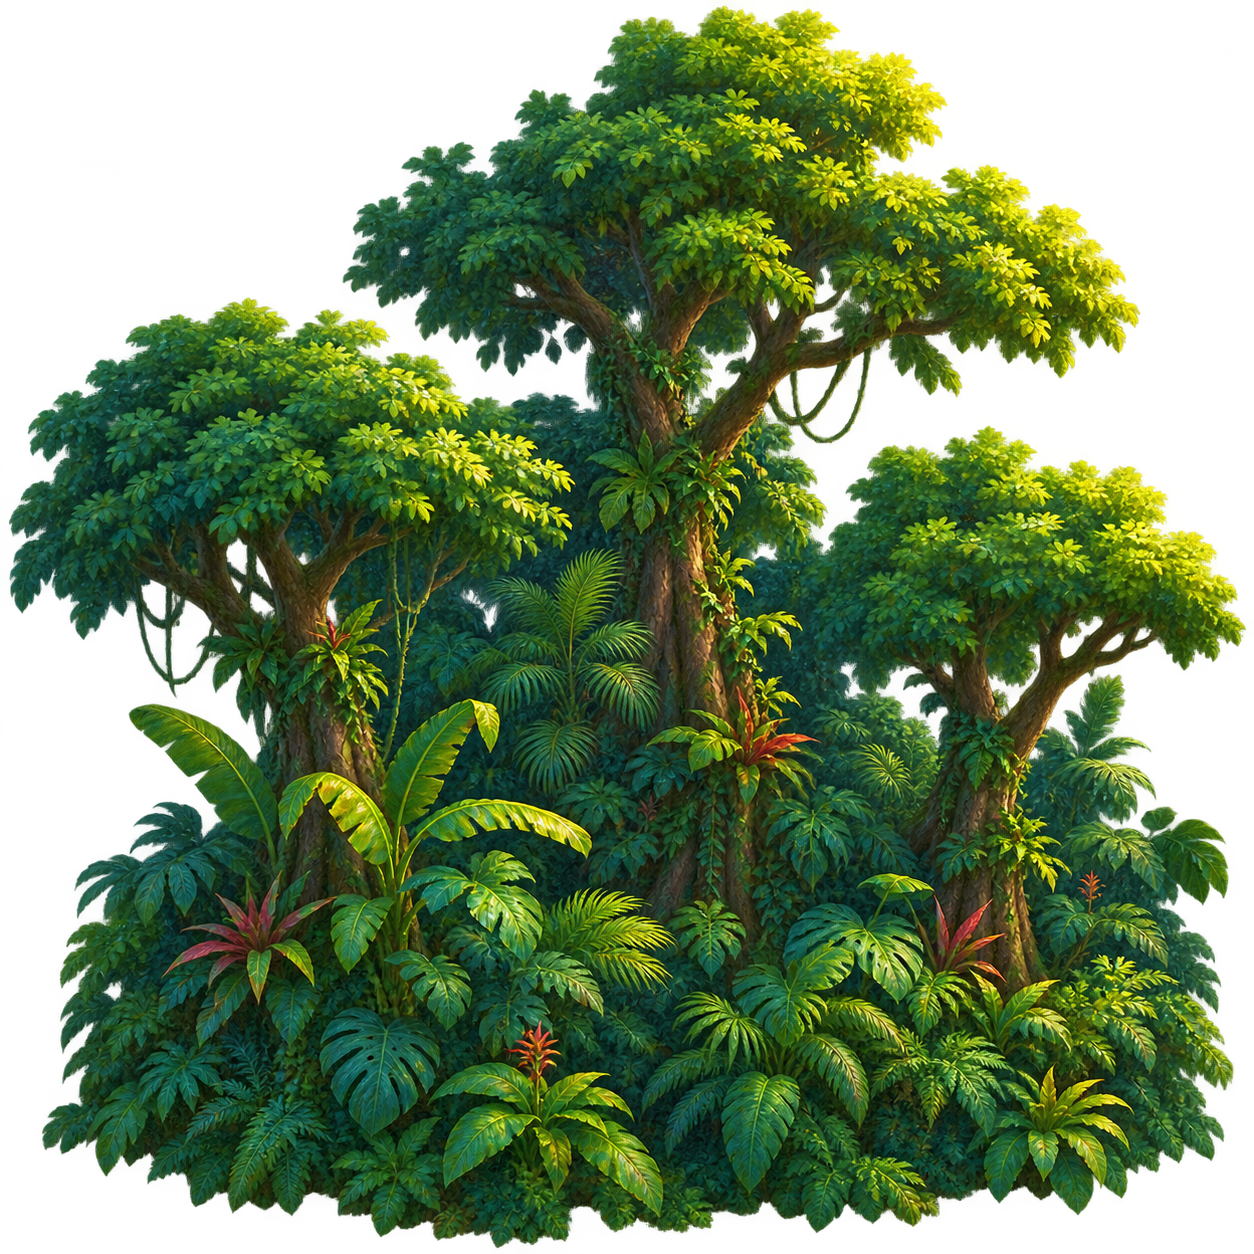
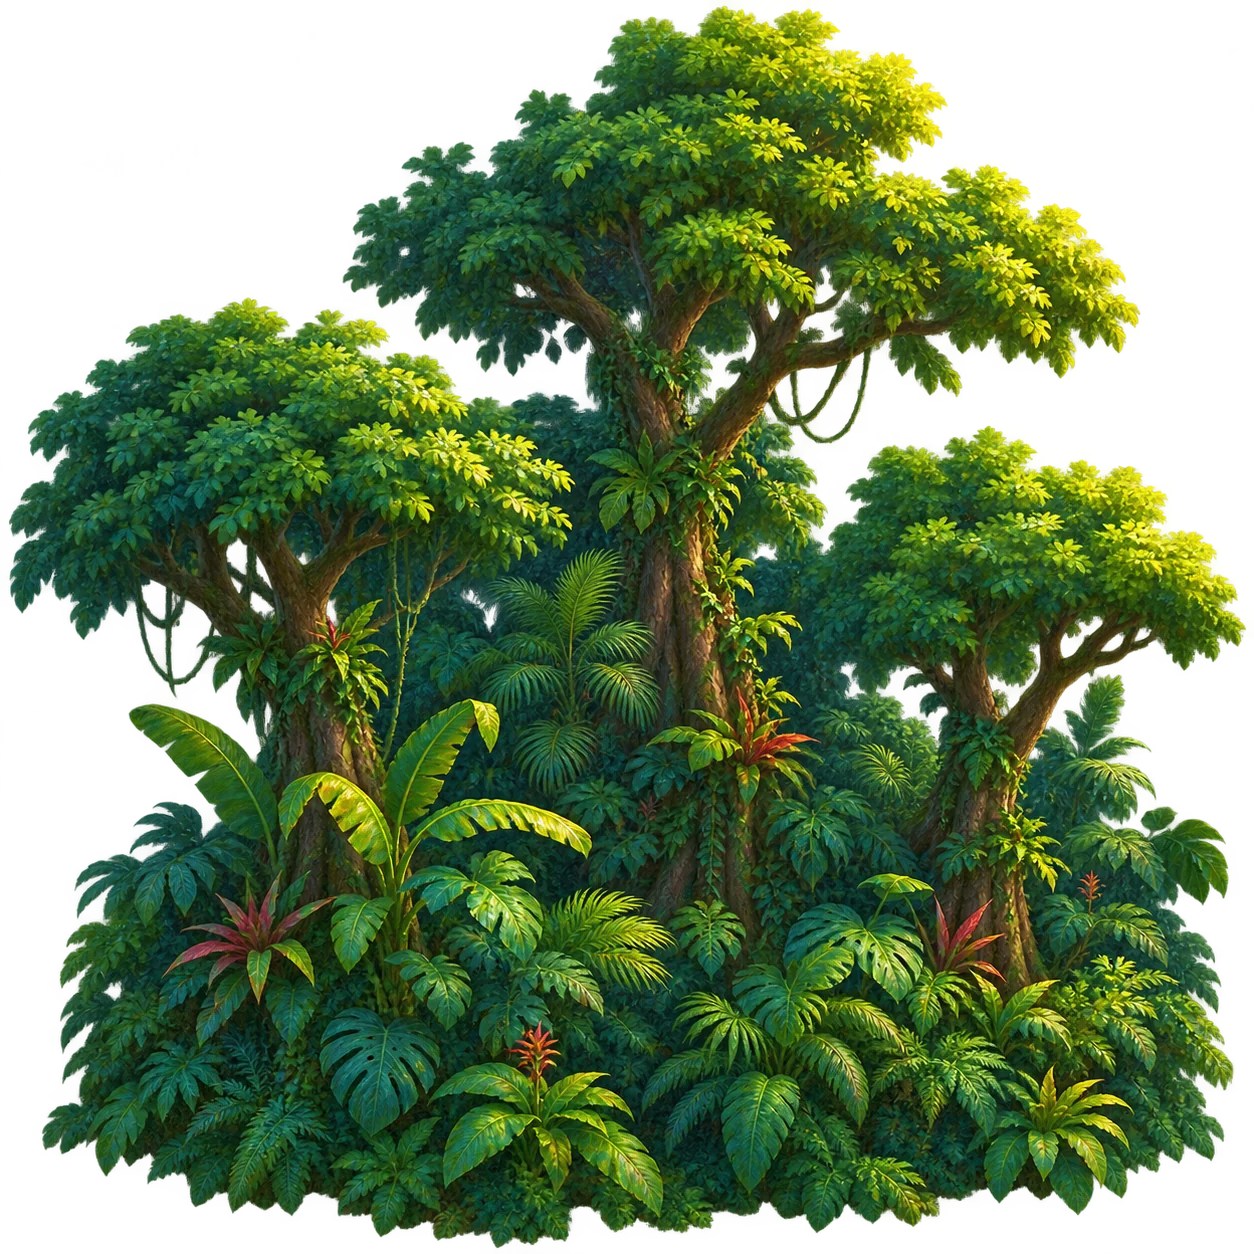
perf(student-race): keep the late challenge art on the GPU and compress two scenery images

diff --git a/client/src/features/studentRace/pixi/__tests__/StudentRaceRenderer.gpuResidency.test.js b/client/src/features/studentRace/pixi/__tests__/StudentRaceRenderer.gpuResidency.test.js
@@ -1,0 +1,119 @@
+import { Assets, Container, Texture, TextureSource } from "pixi.js";
+import { afterEach, describe, expect, it, vi } from "vitest";
+
+import { RACE_GAMEPLAY_MODES } from "../../../../constants/raceGameplayConstants";
+import { STUDENT_RACE_ANIMATION_CONFIG } from "../../config/raceAnimationConfig";
+import { mapRaceStateToRuntime } from "../../runtime/mapRaceStateToRuntime.js";
+import { STUDENT_RACE_EFFECT } from "../../runtime/studentRaceRuntimeConstants";
+import { raceResponse } from "../../runtime/studentRaceTestFixtures.js";
+import { STUDENT_RACE_EFFECT_ART } from "../assets/studentRaceEffectManifest";
+import { STUDENT_RACE_VEHICLE_MANIFEST } from "../assets/studentRaceVehicleManifest";
+import { StudentRaceRenderer } from "../StudentRaceRenderer";
+
+const art = vi.hoisted(() => ({ idle: null, scenery: null }));
+
+vi.mock("../assets/studentRaceWorldAssets", async (importOriginal) => {
+  const actual = await importOriginal();
+  return { ...actual, loadStudentRaceWorldTexture: async () => ({ status: actual.WORLD_ASSET_STATUS.LOADED, texture: art.scenery }) };
+});
+
+vi.mock("../assets/studentRaceVehicleAssets", async (importOriginal) => {
+  const actual = await importOriginal();
+  return {
+    ...actual,
+    loadStudentRaceVehicleAssets: async (vehicleAssetKey) => ({
+      status: actual.VEHICLE_ASSET_STATUS.LOADED,
+      vehicleAssetKey,
+      definition: actual.resolveStudentRaceVehicleAsset(vehicleAssetKey),
+      textures: [art.idle],
+    }),
+  };
+});
+
+const { posePreloadDelayMs } = STUDENT_RACE_ANIMATION_CONFIG.kartPoses;
+// Images from Assets.load are collectable by Pixi's GPU garbage collector (ImageSource sets the flag).
+const collectable = () => new Texture({ source: new TextureSource({ width: 768, height: 768, autoGarbageCollect: true }) });
+const GREEN_POSES = STUDENT_RACE_VEHICLE_MANIFEST.TOY_CAR_GREEN.poses;
+
+function stubArtLoads(pending = new Set()) {
+  art.idle = collectable();
+  art.scenery = collectable();
+  const loaded = new Map([
+    [GREEN_POSES[RACE_GAMEPLAY_MODES.TURBO_TRIAL], collectable()],
+    [GREEN_POSES[RACE_GAMEPLAY_MODES.SAFE_RUN], collectable()],
+    [STUDENT_RACE_EFFECT_ART.turboExhaust.url, collectable()],
+  ]);
+  const resolvers = new Map();
+  vi.spyOn(Assets, "load").mockImplementation((url) => (pending.has(url)
+    ? new Promise((resolve) => resolvers.set(url, () => resolve(loaded.get(url))))
+    : Promise.resolve(loaded.get(url))));
+  return { loaded, resolvers };
+}
+
+async function raceScreen() {
+  vi.useFakeTimers();
+  const initSource = vi.fn();
+  const gc = { maxUnusedTime: 60000, enabled: true };
+  const app = {
+    screen: { width: 520, height: 800 },
+    stage: new Container(),
+    ticker: { add: vi.fn(), remove: vi.fn() },
+    renderer: { texture: { initSource }, gc },
+  };
+  const renderer = new StudentRaceRenderer(app);
+  await renderer.ready;
+  renderer.updateRuntimeState(mapRaceStateToRuntime(raceResponse()));
+  await vi.advanceTimersByTimeAsync(posePreloadDelayMs + 10);
+  return { app, renderer, initSource, gc };
+}
+
+const tick = (renderer) => renderer.tick({ deltaMS: 16, elapsedMS: 16 });
+
+afterEach(() => {
+  vi.useRealTimers();
+  vi.restoreAllMocks();
+});
+
+describe("StudentRaceRenderer GPU residency of the late challenge art", () => {
+  it("keeps only the player's two poses and the flame on the GPU, without touching Pixi's collector", async () => {
+    const { loaded } = stubArtLoads();
+    const { renderer, initSource, gc } = await raceScreen();
+    const prepared = [...loaded.values()];
+
+    expect(initSource).toHaveBeenCalledTimes(3);
+    expect(initSource.mock.calls.map(([source]) => source)).toEqual(expect.arrayContaining(prepared.map(({ source }) => source)));
+    prepared.forEach(({ source }) => expect(source.autoGarbageCollect).toBe(false));
+    expect(art.idle.source.autoGarbageCollect).toBe(true);
+    expect(art.scenery.source.autoGarbageCollect).toBe(true);
+    expect(gc).toEqual({ maxUnusedTime: 60000, enabled: true });
+    renderer.destroy();
+  });
+
+  it("uploads nothing again when the Turbo win and the Safe run show that art later", async () => {
+    stubArtLoads();
+    const { renderer, initSource } = await raceScreen();
+    const state = renderer.runtimeState;
+
+    renderer.playMoments({ id: 1, moments: [{ type: STUDENT_RACE_EFFECT.TURBO_SUCCESS, id: "challenge-5" }] });
+    for (let frame = 0; frame < 120; frame += 1) tick(renderer);
+    renderer.updateRuntimeState({ ...state, gameplay: { ...state.gameplay, mode: RACE_GAMEPLAY_MODES.SAFE_RUN } });
+    for (let frame = 0; frame < 60; frame += 1) tick(renderer);
+
+    expect(initSource).toHaveBeenCalledTimes(3);
+    renderer.destroy();
+  });
+
+  it("neither pins nor uploads a pose that finishes loading after the race screen closed", async () => {
+    const turboUrl = GREEN_POSES[RACE_GAMEPLAY_MODES.TURBO_TRIAL];
+    const { loaded, resolvers } = stubArtLoads(new Set([turboUrl]));
+    const { app, renderer, initSource } = await raceScreen();
+
+    renderer.destroy();
+    app.renderer = null;
+    resolvers.get(turboUrl)();
+    await vi.advanceTimersByTimeAsync(0);
+
+    expect(loaded.get(turboUrl).source.autoGarbageCollect).toBe(true);
+    expect(initSource).not.toHaveBeenCalledWith(loaded.get(turboUrl).source);
+  });
+});

diff --git a/client/src/features/studentRace/pixi/StudentRaceRenderer.js b/client/src/features/studentRace/pixi/StudentRaceRenderer.js
@@ -56,7 +56,14 @@ export class StudentRaceRenderer {
     this.sceneryLayer = new SceneryLayer(this.worldContainer);
     this.opponentLayer = new OpponentLayer(this.worldContainer);
     this.playerKartLayer = new PlayerKartLayer(this.worldContainer, {
-      prepareTexture: (texture) => this.app.renderer?.texture?.initSource?.(texture.source),
+      // Pixi's GPU collector frees textures left undrawn for a minute, so a late Turbo or Safe would upload
+      // its pose and flame again at that very moment. Only these stay; Pixi frees them with this renderer.
+      prepareTexture: (texture) => {
+        const gpuTextures = this.app.renderer?.texture;
+        if (gpuTextures?.initSource == null) return;
+        texture.source.autoGarbageCollect = false;
+        gpuTextures.initSource(texture.source);
+      },
     });
     this.effectsLayer = new EffectsLayer(this.effectsContainer);
     this.layers = [

diff --git a/docs/02-client/STUDENT_RACE_SCREEN_AND_ASSETS.md b/docs/02-client/STUDENT_RACE_SCREEN_AND_ASSETS.md
@@ -234,7 +234,8 @@ react-overlay-decoration
 World-art model (C1-06F, locked): existing raw FAR/road/scenery art stays in
 the private vision area and is processed deterministically (alpha lift,
 seam heal, WebP) into this tree. The new thicket and flowering verge trials
-below use lossless WebP encodings of their private generated PNGs.
+below used lossless WebP encodings of their private generated PNGs; since
+2026-10-19 both runtime files are quality-85 lossy WebP with byte-identical alpha.
 Static sky/ground gradients sit behind
 a static FAR horizon sprite anchored to the horizon;
 projected surfaces (ground plane, road, optional MID verge) and projected
@@ -287,10 +288,11 @@ generated transparent cluster that fills the forest interior behind
 individual trees. It joins the existing two trees, palm, two rocks and
 bush in `sceneryConfig.props`; with the flowering verge below, all eight
 assets share `SceneryLayer`.
-The runtime WebP is 1254×1254 pixels and 2,136,844 bytes (2.14 MB).
-It was encoded losslessly from the generated PNG, with every decoded RGBA
-byte verified as identical. No resizing, recoloring or artwork edits were
-applied. The 2,835,611-byte source PNG stays private at
+The runtime WebP is 1254×1254 pixels. It was first encoded losslessly from
+the generated PNG (2,136,844 bytes, every decoded RGBA byte verified as
+identical); since 2026-10-19 it is quality-85 lossy WebP (633,756 bytes) with
+byte-identical alpha, chosen after an in-game comparison. No resizing,
+recoloring or artwork edits were applied. The 2,835,611-byte source PNG stays private at
 `docs/vision/world-art-source/jungle-thicket-01.png`; only the WebP is
 consumed by `sceneryConfig`. It belongs to the accepted world composition;
 physical-phone performance remains a required pre-release check carried from C1-06G. Its filename and URL
@@ -319,9 +321,10 @@ Use case: stylized-concept. Generate one production-ready transparent PNG sprite
 
 `client/src/assets/game/studentRace/scenery/jungle-verge-flowers-01.webp`
 is a low, dense roadside clump generated with the built-in image generator.
-Its lossless RGBA WebP is 1774×887 pixels and 1,344,364 bytes, with decoded
-pixels verified identical to the generated source. No crop, resize or color
-edit was applied. The private source is
+Its RGBA WebP is 1774×887 pixels: first lossless (1,344,364 bytes, decoded
+pixels verified identical to the generated source), since 2026-10-19
+quality-85 lossy (360,908 bytes) with byte-identical alpha. No crop, resize or
+color edit was applied. The private source is
 `docs/vision/world-art-source/jungle-verge-flowers-01.png`.
 
 `sceneryConfig.props` owns its asset URL, width and `anchorY` 0.94. About

diff --git a/docs/02-client/CLIENT_CURRENT_STATE.md b/docs/02-client/CLIENT_CURRENT_STATE.md
@@ -367,10 +367,11 @@ Implemented A–G:
   the shoulder join. Road width, camera and logical depth zones are unchanged.
   Shimon accepted the current world design; this composition is the baseline
   for feedback polish and C2 rather than an open art trial.
-- The thicket and new `jungle-verge-flowers-01.webp` are packaged as lossless
+- The thicket and new `jungle-verge-flowers-01.webp` were first packaged as lossless
   WebP with every decoded RGBA byte verified against their private generated
-  PNGs; artwork, dimensions and colors are unchanged. The flowers are
-  1774×887 pixels / 1,344,364 bytes;
+  PNGs; since 2026-10-19 both ship as quality-85 lossy WebP with byte-identical
+  alpha (client quality package 1, 3,481,208 → 994,664 bytes together); artwork,
+  dimensions and colors are unchanged. The flowers are 1774×887 pixels / 360,908 bytes;
   metadata `anchorY` 0.94 places their dense base at the road edge without
   cropping the image. Side-ground texture density and a 48-row ground
   mesh reduce near-ground stretching and projection coarseness. Road sampling
@@ -751,7 +752,10 @@ Current audio matrix:
   with the kart recolour pipeline); 0 visible pixels change in the kart body, so the anchor,
   size and nozzle centres are identical. Only the player's kart uses them. The player's two poses
   load and upload to the GPU about 1.5 s after the kart art appears (`kartPoses` in
-  `raceAnimationConfig`); a failed one retries at most twice, 5 s apart, never offline; a pose
+  `raceAnimationConfig`); they and the painted exhaust then stay on the GPU for the whole race
+  screen (`StudentRaceRenderer`'s prepare step exempts only these sources from Pixi's 60 s GPU
+  collector; Pixi frees them with the renderer), so a late Turbo or Safe does not upload them
+  again; a failed one retries at most twice, 5 s apart, never offline; a pose
   blends in over 320 ms and returns from Turbo in 160 ms on an isolated surface
   (`KartArtCrossfade`, the shared body stays opaque); the blend filter is warmed up in the same
   quiet moment, so the first Turbo win does not stall on compiling it; reduced motion swaps at

diff --git a/docs/02-client/CLIENT_IMPLEMENTATION_PLAN.md b/docs/02-client/CLIENT_IMPLEMENTATION_PLAN.md
@@ -1261,6 +1261,23 @@ Built in tracks by server contract: Track A uses only the merged S4-01 vocabular
   1,641/1,641 (178 files), lint and build pass. Performance was measured on the DEV build only:
   a physical-phone check and production profiling remain open, and dedicated challenge sounds
   are still AUDIO ASSET REQUIRED. Evidence: `docs/vision/C5_03/final_gate_2026-10-18/` (local).
+- **Client quality package 1, GPU residency of the challenge art — IMPLEMENTED LOCALLY (not
+  committed, 2026-10-19):** Pixi's GPU collector frees textures left undrawn for 60 s, so the
+  preloaded Turbo/Safe poses and the painted exhaust were freed about 90 s after the preload and
+  uploaded again at a later Turbo win or Safe start (DEV: 2 uploads at the win, 0.9–16.5 ms of
+  main-thread time). The renderer's prepare step now marks only those three sources as not
+  collectable before uploading them; the collector settings are unchanged and Pixi frees them with
+  the renderer. DEV verification: a Turbo win and a Safe start at about 126 s and 133 s upload
+  nothing and compile no shader; five race screens in a row with different colours release their
+  contexts and pin three sources each; blocked art pins nothing and keeps the fallbacks; a lost
+  context recovers (the art uploads again at its next use). A colour change in the middle of a race
+  keeps the previous colour's two poses until the screen closes. Client suite 1,644/1,644
+  (179 files), lint and build pass. The two lossless scenery WebPs (`jungle-thicket-01`,
+  `jungle-verge-flowers-01`) are now quality-85 lossy WebP with byte-identical alpha and the same
+  size, approved by Shimon on 2026-10-19 after an in-game comparison (supersedes the lossless
+  packaging recorded under C1-06F): 3,481,208 → 994,664 bytes, and the game's frames match the
+  reviewed candidate pixel for pixel. Production preview and physical phones: NOT TESTED.
+  Evidence: `docs/vision/p1_gpu_scenery_2026-10-19/` (local).
 
 ### C5 gameplay UI — after S4-02 onward
 

diff --git a/AGENTS.md b/AGENTS.md
@@ -207,8 +207,10 @@ Full workflow: `docs/03-quality/ISSUE_PR_AND_AI_WORKFLOW.md`.
 
 ## 12. Code quality limits
 
-- Added or modified `.java`, `.js` and `.jsx` files contain no comments or
-  Javadocs. Use focused types, small methods and explicit names instead.
+- Prefer focused types, small methods and explicit names over comments. Never
+  delete existing comments in unrelated edits. Add a short comment only where
+  it explains non-obvious behavior (why, not what) — never a comment per line,
+  no Javadoc boilerplate.
 - An added or modified code or test file must not exceed 500 lines. Split by
   responsibility before extending a file that is already near the limit.
 - Logger templates and repeated operation labels belong to focused constants,
